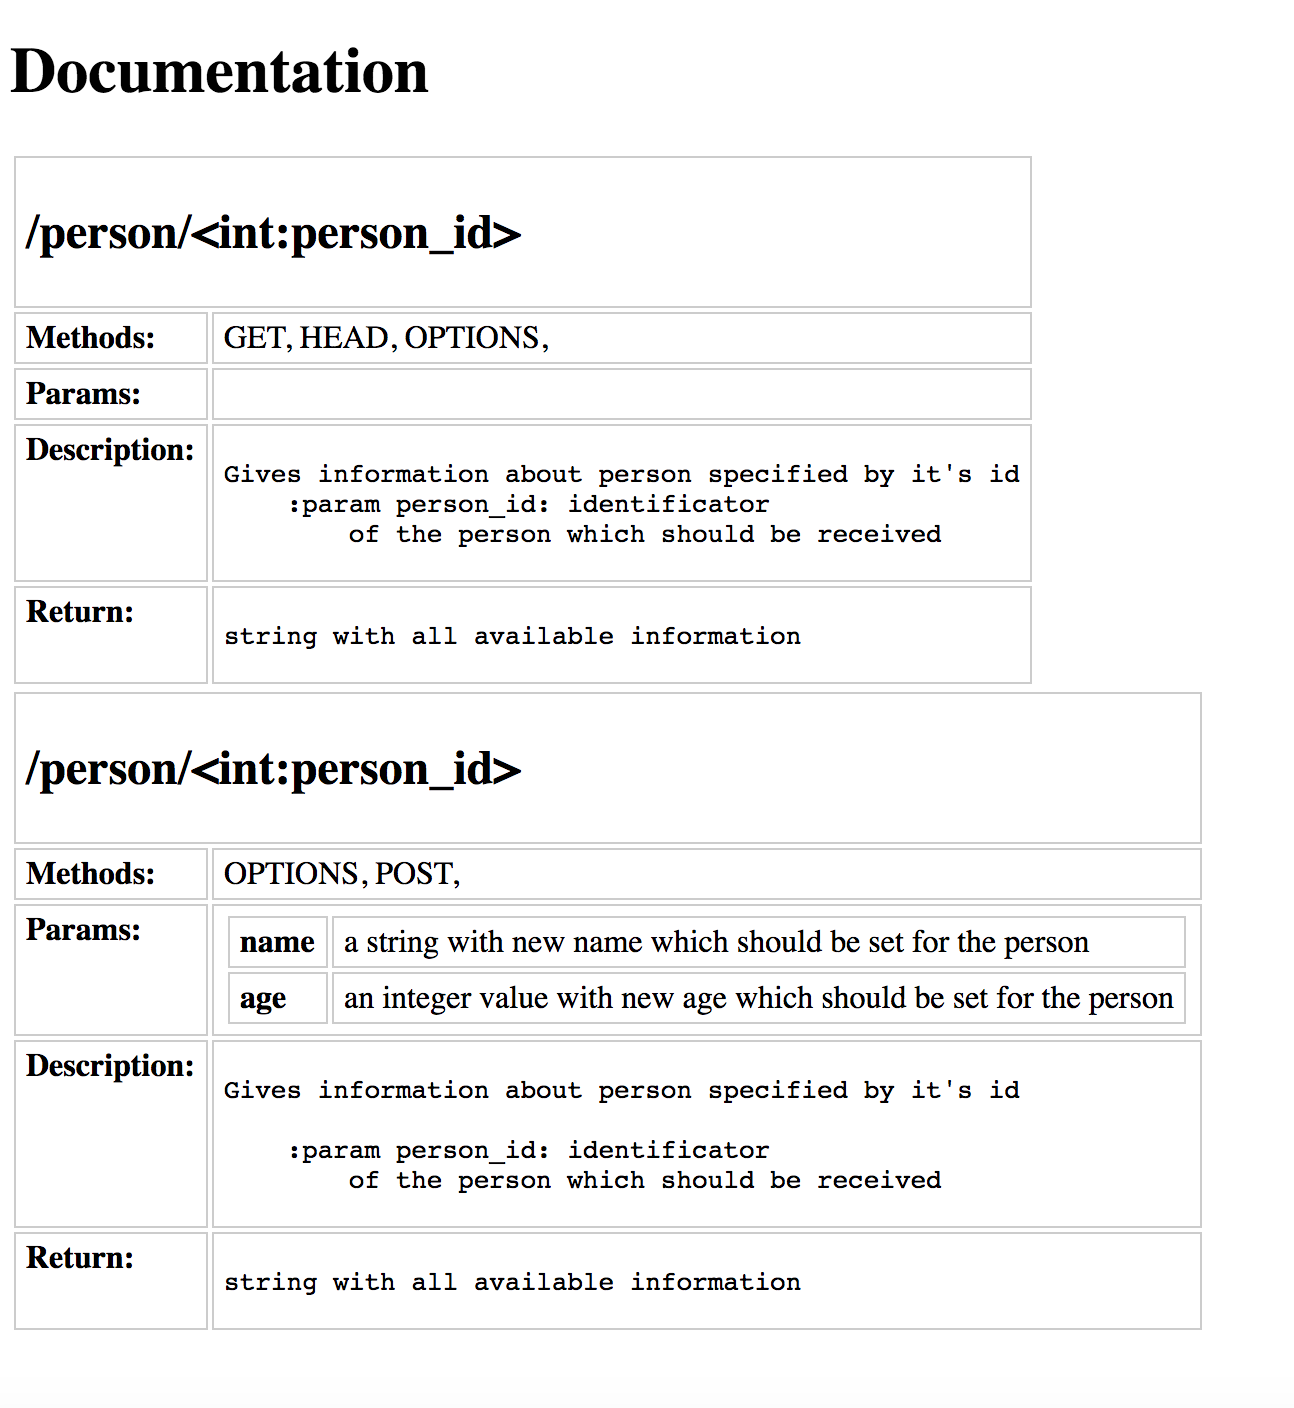
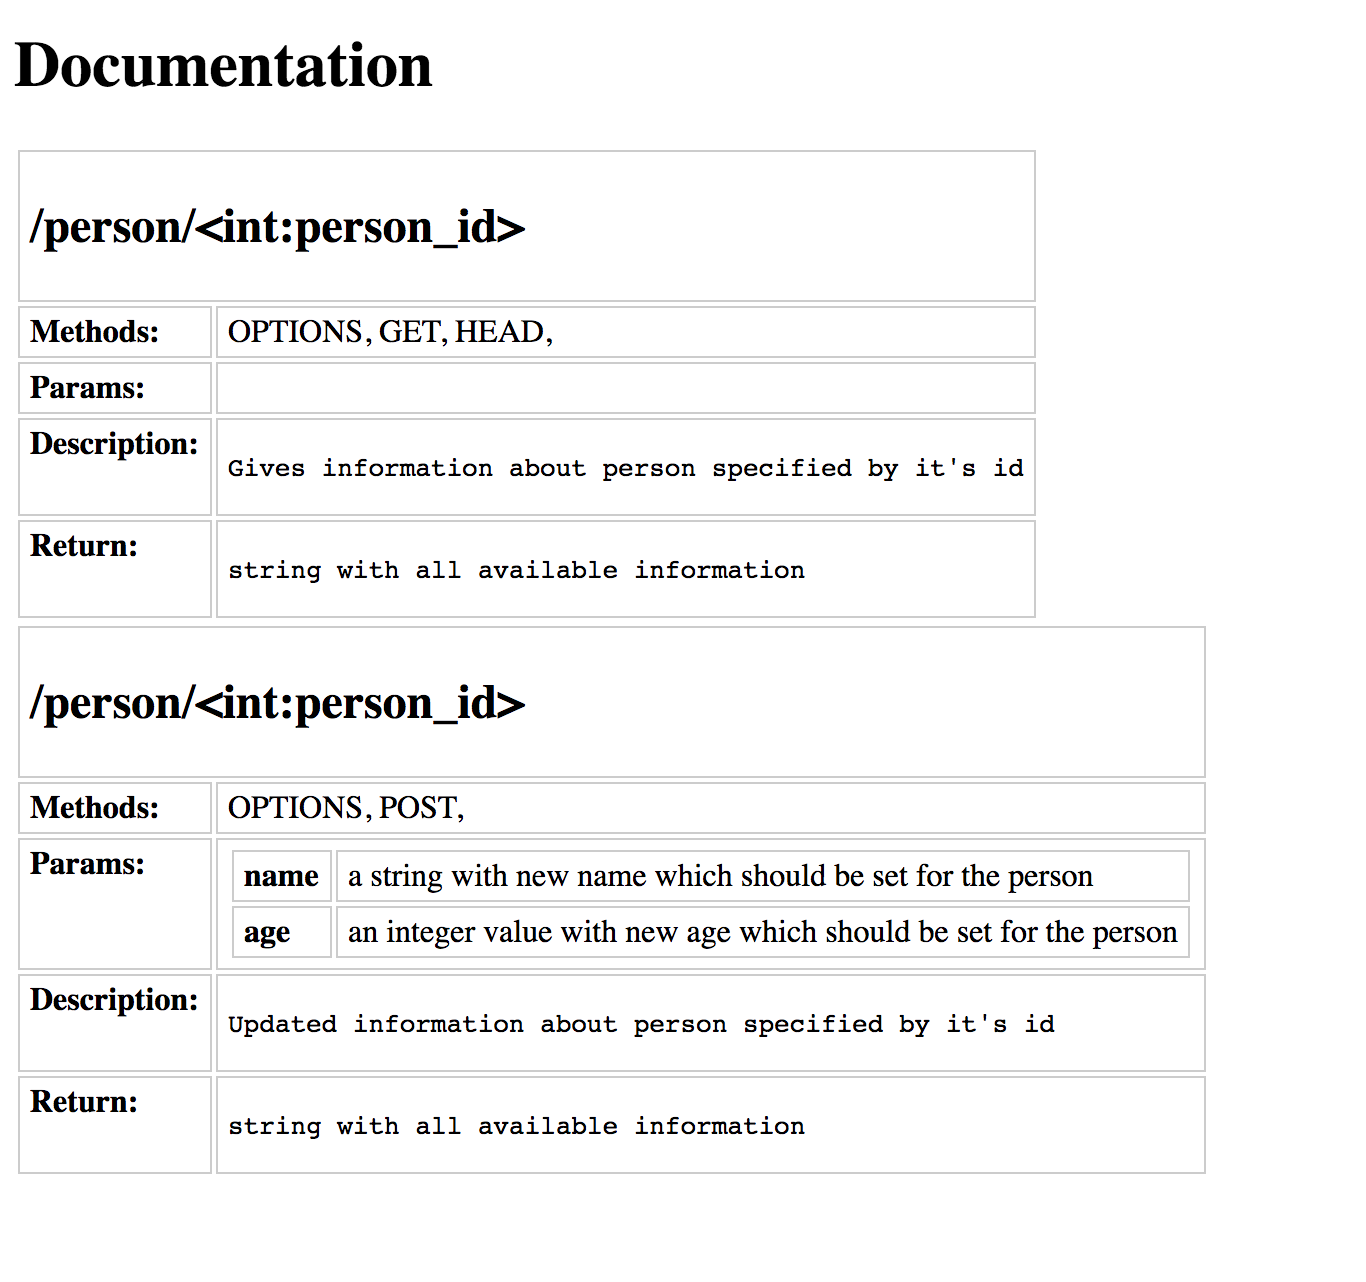
use :param pattern instead of :params

Changed region(s): [[0.0, 0.5304, 0.9274, 0.936], [0.0, 0.1248, 0.8037, 0.4992], [0.0, 0.0312, 0.34, 0.0936]]

diff --git a/flask_auto_docs/main.py b/flask_auto_docs/main.py
@@ -7,9 +7,9 @@ from flask import render_template
 class FlaskAutoDocs:
 
     RE_GET_RETURN = re.compile(r'(?<=:return:)\s*(.*)', re.DOTALL)
-    RE_GET_DESCRIPTION = re.compile(r'\s+(?P<data>.+?)?\s+(?=:params|:api_param|:return|$)', re.DOTALL)
+    RE_GET_DESCRIPTION = re.compile(r'\s+(?P<data>.+?)?\s+(?=:param|:api_param|:return|$)', re.DOTALL)
     RE_GET_API_PARAMS = re.compile(
-        r'(?<=:api_param) ((?P<p_name>.+?): (?P<p_descr>.+?))\s+(?=:params|:api_param|:return|$)', re.DOTALL)
+        r'(?<=:api_param) ((?P<p_name>.+?): (?P<p_descr>.+?))\s+(?=:param|:api_param|:return|$)', re.DOTALL)
 
     def __init__(self, flask_app):
         self._data = dict()
@@ -23,7 +23,7 @@ class FlaskAutoDocs:
 
     @classmethod
     def default_description(self):
-        return {'description': '', 'url':'', 'methods': set(), 'return': '', 'params': dict()}
+        return {'description': '', 'url': '', 'methods': set(), 'return': '', 'params': dict()}
 
     def get(self, name):
         f_descr = self.default_description()

diff --git a/tests/tests.py b/tests/tests.py
@@ -15,7 +15,7 @@ def fixture_full(person_id:int):
     it its' cool: it can do amazing stuff
 
     and so on
-    :params person_id: id of the person
+    :param person_id: id of the person
     :api_param name: name of the person to be set
     :api_param age: new age for the person
     :return: true of false
@@ -28,13 +28,13 @@ def fixture_mixing(person_id:int):
     it its' cool: it can do amazing stuff
 
     and so on
-    :params person_id: id of the person
+    :param person_id: id of the person
     :api_param name: name of the person to be set
         api_param row 2
-    :params test1: test
+    :param test1: test
         params row 2
     :api_param age: new age for the person
-    :params test2: test
+    :param test2: test
     :return: true of false
         and many other interesting stuff
     """
